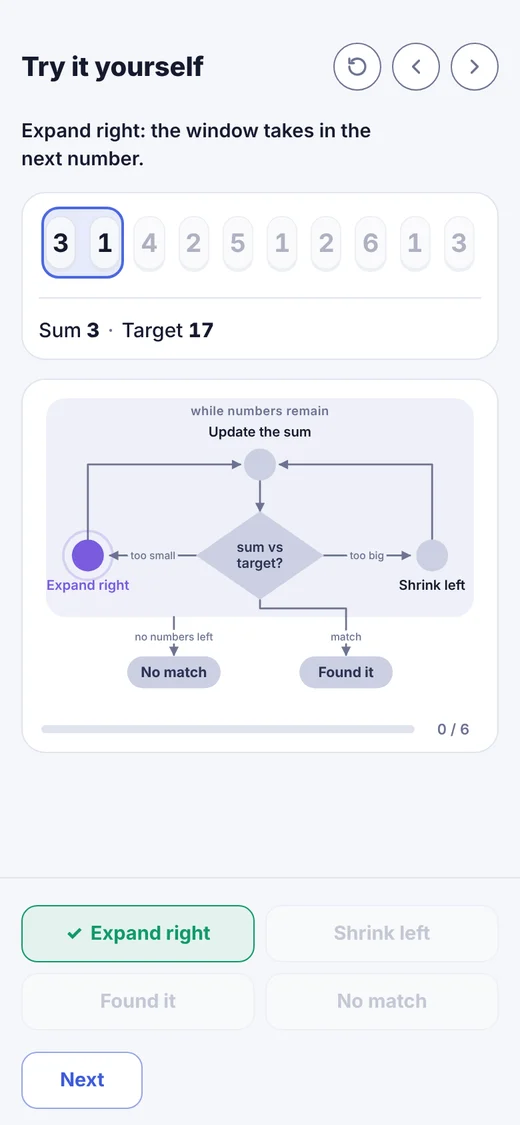
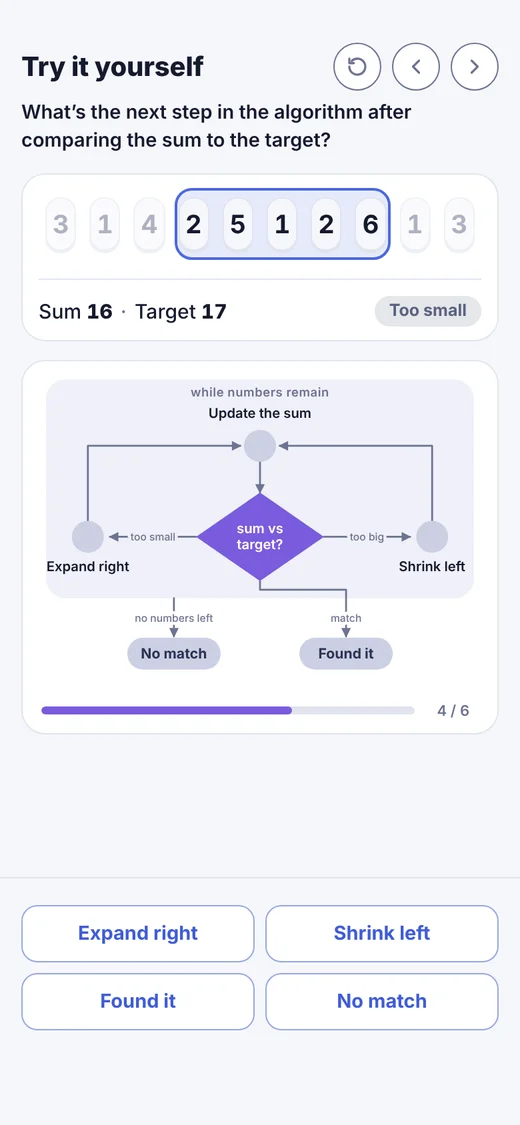
Sliding window card: show the question view with a wider window (#21)
Use the Try it yourself question at checkpoint 4 of 6, where the window
covers five numbers, instead of the first checkpoint.

Claude-Session: https://claude.ai/code/session_01B6u6w9fTGNxU2tRw6eReYt

diff --git a/app/page.tsx b/app/page.tsx
@@ -8,7 +8,7 @@ const lessons = [
   {
     href: "/sliding-window",
     preview: "/sliding-window-preview.webp",
-    alt: "Sliding window lesson on a phone: after choosing Expand right correctly, with the flowchart highlighting that step and a Next button",
+    alt: "Sliding window lesson on a phone: the Try it yourself question, with a five-number window highlighted and four choices to pick from",
     title: "Sliding window",
   },
   {
